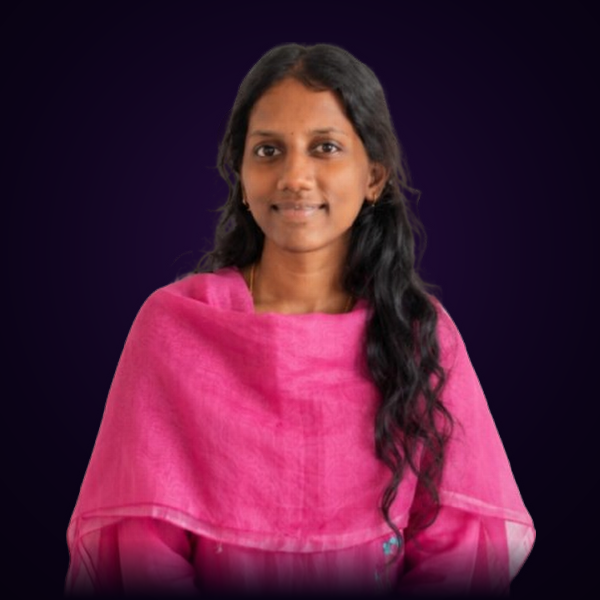
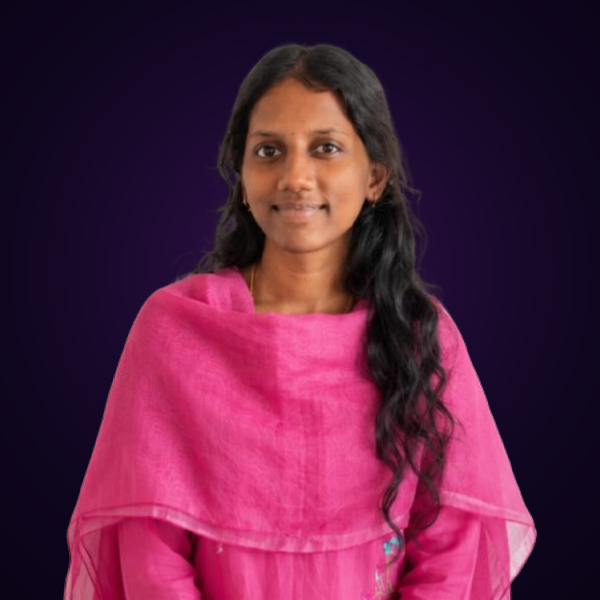
fix(team): remove white background on Tamil portrait, restore solid crisp suit and shirt on Mayur and Tamil, and fix light toggle test

diff --git a/src/test/team-section.test.tsx b/src/test/team-section.test.tsx
@@ -4,56 +4,58 @@ import { TeamSection } from "@/components/TeamSection";
 import { TEAM_MEMBERS } from "@/components/team-data";
 
 describe("TeamSection", () => {
-  it("contains all 21 members in team-data with Prajwal N and Mayur P at the helm", () => {
-    expect(TEAM_MEMBERS).toHaveLength(21);
-    expect(TEAM_MEMBERS[0].name).toBe("Prajwal N");
-    expect(TEAM_MEMBERS[0].role).toBe("CEO and Founder");
-    expect(TEAM_MEMBERS[1].name).toBe("Mayur P");
-    expect(TEAM_MEMBERS[1].role).toBe("CTO and co founder");
-    expect(TEAM_MEMBERS.find((m) => m.name === "Mohammed Parish Khan K")?.role).toBe("AI Engineer Intern");
-    expect(TEAM_MEMBERS.find((m) => m.name === "ShivaSakthivel L")?.role).toBe("AI Engineer Intern");
-    expect(TEAM_MEMBERS.find((m) => m.name === "Tamil TM")?.role).toBe("Applied AI Engineer");
-    expect(TEAM_MEMBERS.find((m) => m.name === "Nivethitha Ramesh")?.role).toBe("Applied AI Engineer");
-    expect(TEAM_MEMBERS.find((m) => m.name === "Jamuna Rani")?.role).toBe("SDE Intern");
-    expect(TEAM_MEMBERS.find((m) => m.name === "Rajeshwari M")?.role).toBe("SDE Intern");
-    expect(TEAM_MEMBERS.find((m) => m.name === "Bhuvana Sree S")?.role).toBe("SDE Intern");
+  it("contains all 9 members in team-data with Mayur P and Prajwal N at the helm", () => {
+    expect(TEAM_MEMBERS).toHaveLength(9);
+    expect(TEAM_MEMBERS[0].name).toBe("Mayur P");
+    expect(TEAM_MEMBERS[0].role).toBe("Tech Mentors");
+    expect(TEAM_MEMBERS[1].name).toBe("Prajwal N");
+    expect(TEAM_MEMBERS[1].role).toBe("Tech Mentors");
+    expect(TEAM_MEMBERS.find((m) => m.name === "Mohammed Parish Khan K")?.role).toBe("Organizers");
+    expect(TEAM_MEMBERS.find((m) => m.name === "ShivaSakthivel L")?.role).toBe("Organizers");
+    expect(TEAM_MEMBERS.find((m) => m.name === "Tamil TM")?.role).toBe("Organizers");
+    expect(TEAM_MEMBERS.find((m) => m.name === "Nivethitha Ramesh")?.role).toBe("Organizers");
+    expect(TEAM_MEMBERS.find((m) => m.name === "Jamuna Rani")?.role).toBe("Organizers");
+    expect(TEAM_MEMBERS.find((m) => m.name === "Rajeshwari M")?.role).toBe("Organizers");
+    expect(TEAM_MEMBERS.find((m) => m.name === "Bhuvana Sree S")?.role).toBe("Organizers");
   });
 
-  it("renders in OFF state by default showing CLASSIFIED and IDENTITY_LOCKED", () => {
+  it("renders in ON state by default revealing real member names and profiles", () => {
     render(<TeamSection />);
 
-    // Expect classified indicators
-    const classifiedHeadings = screen.getAllByText("CLASSIFIED");
-    expect(classifiedHeadings.length).toBeGreaterThan(0);
-
-    const lockedLabels = screen.getAllByText("IDENTITY_LOCKED");
-    expect(lockedLabels.length).toBeGreaterThan(0);
+    // Real team members appear by default
+    expect(screen.getAllByText("Prajwal N").length).toBeGreaterThan(0);
+    expect(screen.getAllByText("Mayur P").length).toBeGreaterThan(0);
+    expect(screen.getAllByText("Tamil TM").length).toBeGreaterThan(0);
+    expect(screen.getAllByText("Mohammed Parish Khan K").length).toBeGreaterThan(0);
   });
 
-  it("toggles to ON state revealing real member names and profiles when bulb is clicked", () => {
+  it("toggles to OFF state when bulb is clicked and back to ON", () => {
     render(<TeamSection />);
 
-    // Click the hanging bulb
+    // Click hanging bulb to turn OFF
     const bulbButton = screen.getByTestId("hanging-bulb");
     fireEvent.click(bulbButton);
 
-    // Real team members appear
-    expect(screen.getAllByText("Prajwal N").length).toBeGreaterThan(0);
-    expect(screen.getAllByText("Mayur P").length).toBeGreaterThan(0);
-    expect(screen.getAllByText("Karthick Mayur").length).toBeGreaterThan(0);
-    expect(screen.getAllByText("Tamil TM").length).toBeGreaterThan(0);
-    expect(screen.getAllByText("Mohammed Parish Khan K").length).toBeGreaterThan(0);
+    // Profile elements have opacity-0 when light is off
+    const revealedElements = screen.getAllByText("Mayur P");
+    revealedElements.forEach((el) => {
+      expect(el.closest("div")?.className).toContain("opacity-0");
+    });
+
+    // Click hanging bulb to turn back ON
+    fireEvent.click(bulbButton);
+
+    // Profile elements have opacity-100 when light is on
+    revealedElements.forEach((el) => {
+      expect(el.closest("div")?.className).toContain("opacity-100");
+    });
   });
 
   it("opens operative dossier modal when an illuminated card is clicked", () => {
     render(<TeamSection />);
 
-    // Turn light on first
-    const bulbButton = screen.getByTestId("hanging-bulb");
-    fireEvent.click(bulbButton);
-
     // Click on the first member card
-    const memberName = screen.getAllByText("Karthick Mayur")[0];
+    const memberName = screen.getAllByText("Mayur P")[0];
     fireEvent.click(memberName);
 
     // Modal opens with dossier info
@@ -64,28 +66,6 @@ describe("TeamSection", () => {
     const closeBtn = screen.getByText("✕ ESC");
     fireEvent.click(closeBtn);
     expect(screen.queryByText(/STATUS: CONFIRMED_BUILDER/i)).not.toBeInTheDocument();
-  });
-
-  it("toggles back to OFF state when clicked again, reverting to same as before", () => {
-    render(<TeamSection />);
-
-    const bulbButton = screen.getByTestId("hanging-bulb");
-    // Turn ON
-    fireEvent.click(bulbButton);
-    expect(screen.getAllByText("Karthick Mayur").length).toBeGreaterThan(0);
-
-    // Turn back OFF
-    fireEvent.click(bulbButton);
-
-    // Should show CLASSIFIED again
-    const classifiedHeadings = screen.getAllByText("CLASSIFIED");
-    expect(classifiedHeadings.length).toBeGreaterThan(0);
-
-    // Profile elements have opacity-0 when light is off
-    const revealedElements = screen.getAllByText("Karthick Mayur");
-    revealedElements.forEach((el) => {
-      expect(el.closest("div")).toHaveClass("opacity-0");
-    });
   });
 
   it("removes 'CLICK TO REVEAL THE PEOPLE' badge and 'CLICK TO REVEAL' button", () => {

diff --git a/src/components/TeamSection.tsx b/src/components/TeamSection.tsx
@@ -48,9 +48,11 @@ export function TeamSection({ sectionHead }: TeamSectionProps) {
   };
 
   const handleToggleLight = () => {
-    const nextState = !isLit;
-    playClickSound(nextState);
-    setIsLit(nextState);
+    setIsLit((prev) => {
+      const nextState = !prev;
+      playClickSound(nextState);
+      return nextState;
+    });
   };
 
   // Close dossier modal on ESC key
